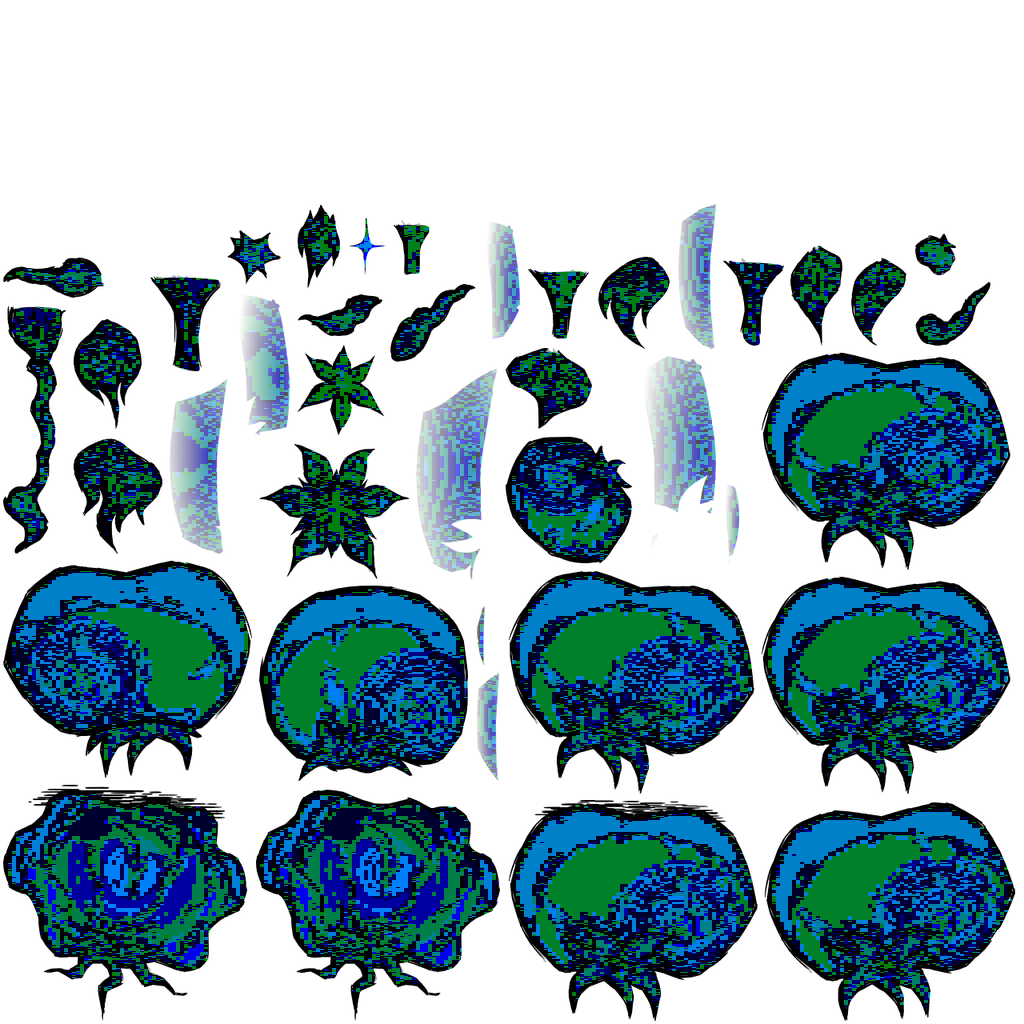
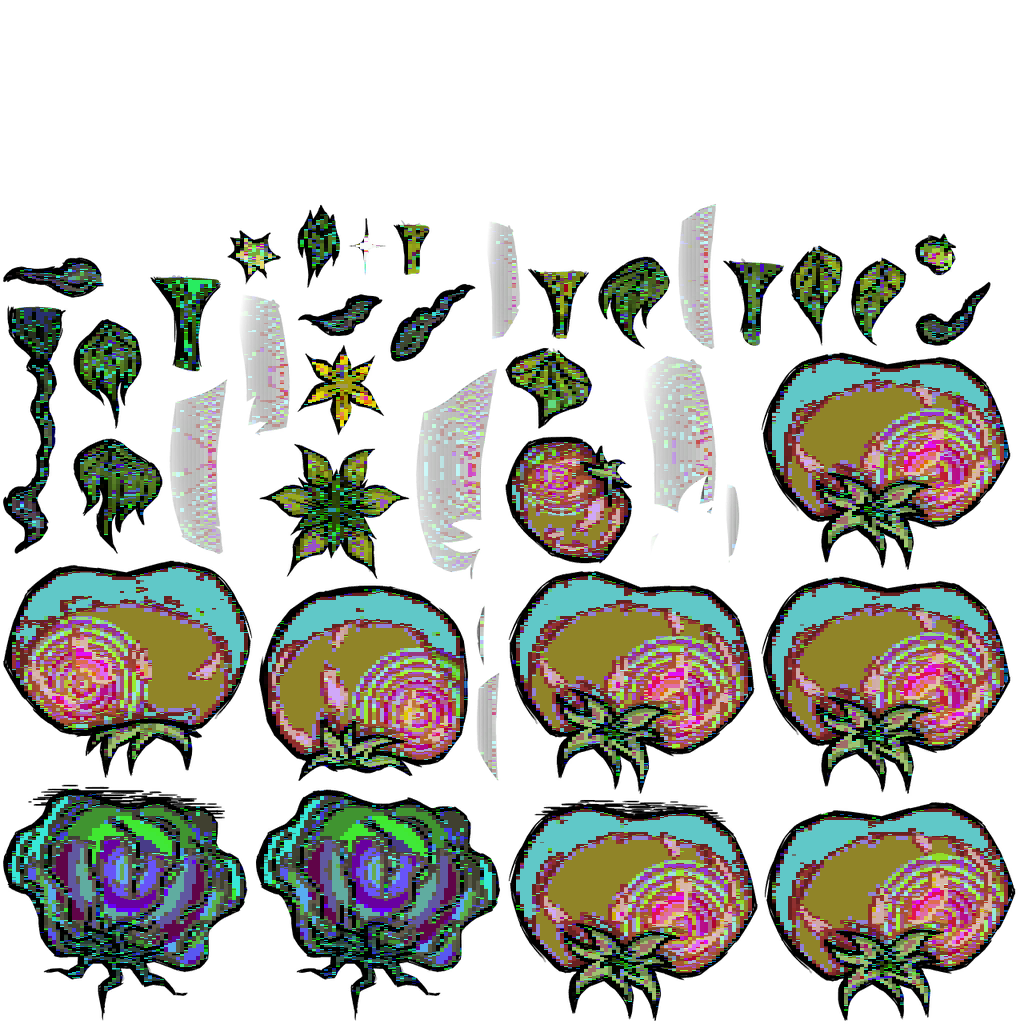
color it?

diff --git a/src/dxt.ts b/src/dxt.ts
@@ -1,14 +1,17 @@
 import * as jimp from "jimp";
 import { BufferData, debug } from "./util";
 
+const colorR = new Set<any>();
+const colorSet = new Set<number>();
+
 function parse565(color: number) {
   let value = color;
   const b = (value & ((1 << 5) - 1)) << 3;
 
-  value <<= 5;
+  value >>= 5;
   const g = (value & ((1 << 6) - 1)) << 2;
 
-  value <<= 6;
+  value >>= 6;
   const r = (value & ((1 << 5) - 1)) << 3;
 
   return { r, g, b };
@@ -19,10 +22,13 @@ function rgba2hex(r: number, g: number, b: number, a: number) {
   color = (color << 8) | g;
   color = (color << 8) | b;
   color = (color << 8) | a;
+  color = color >>> 0;
+
+  colorR.add(r + "|" + g + "|" + b + "|" + a + "<" + color);
+
   return color;
 }
 
-const colorSet = new Set<number>();
 function parseBlock(data: BufferData) {
   // ====================== Alpha ======================
   const alpha0 = data.readByte();
@@ -70,6 +76,8 @@ function parseBlock(data: BufferData) {
 
   // Build color table
   const colors: number[] = [color0, color1];
+  colorSet.add(color0);
+  colorSet.add(color1);
 
   if (color0 <= color1) {
     colors[2] = (color0 + color1) / 2;
@@ -98,8 +106,7 @@ function parseBlock(data: BufferData) {
 
   return colorList.map((color, index) => {
     const rgb = parse565(color);
-    const rgba = rgba2hex(rgb.r, rgb.g, rgb.b, alphaList[index])
-    colorSet.add(rgba);
+    const rgba = rgba2hex(rgb.r, rgb.g, rgb.b, alphaList[index]);
     return rgba;
   });
 }
@@ -109,21 +116,29 @@ export function parseDXT5(buffer: Buffer, width: number, height: number) {
   debug(0, "Buffer Size:", buffer.length, `${buffer.length / 8}`);
 
   const img = new jimp(width, height);
-  for (let y = 0; y < height; y += 4) {
-    for (let x = 0; x < height; x += 4) {
-      // Fill 4 * 4
-      const blockColors = parseBlock(data);
-      blockColors.forEach((hexColor, index) => {
-        const px = x + index % 4;
-        const py = y + Math.floor(index / 4);
-        img.setPixelColor(hexColor, px, py);
-      });
+
+  try {
+    for (let y = 0; y < height; y += 4) {
+      for (let x = 0; x < height; x += 4) {
+        // Fill 4 * 4
+        const blockColors = parseBlock(data);
+        blockColors.forEach((hexColor, index) => {
+          const px = x + (index % 4);
+          const py = y + Math.floor(index / 4);
+          img.setPixelColor(hexColor, px, py);
+        });
+      }
     }
+  } catch (e) {
+    throw e;
+  } finally {
+    console.log(
+      "Color Set:",
+      Array.from(colorSet).map((c) => c.toString(16).padStart(8, "0"))
+    );
+
+    console.log("RGBA:", colorR);
   }
-
-  debug(1, "Reach End:", data.reachEnd());
-
-  console.log('Color Set:', colorSet);
 
   return img;
 }
